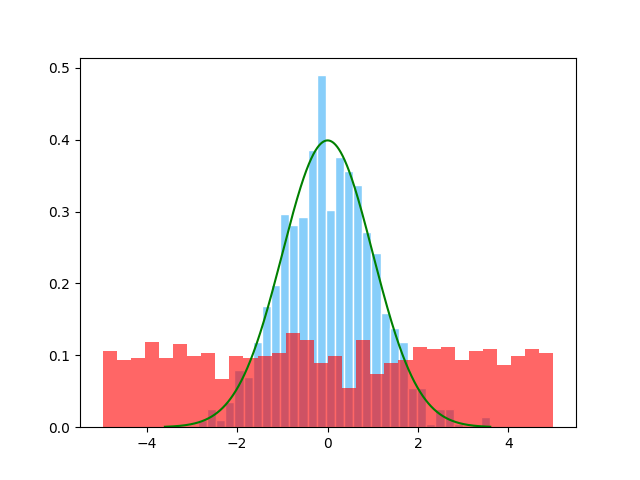
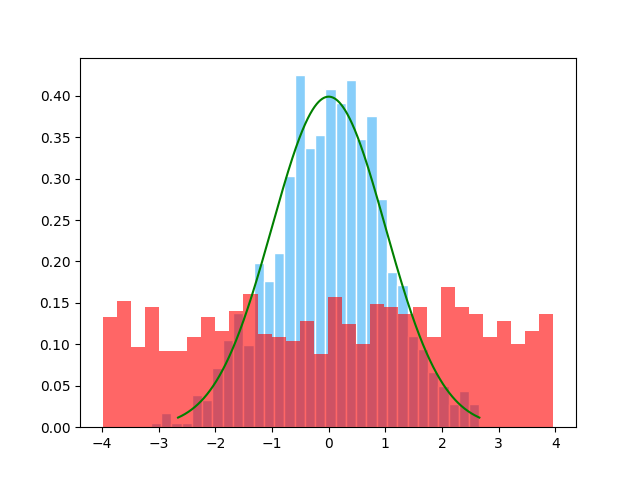
update gen distribution

diff --git a/probility/gen_distribute_from_U.py b/probility/gen_distribute_from_U.py
@@ -141,7 +141,7 @@ print "mean, std:", mean_val, std_val
 #绘制高斯采样的直方图
 plt_hist(sim_gauss_num, normed=True)
 #叠加均匀分布采样直方图
-plt.hist((sim_u-0.5)*10, bins = group_count, normed=True, color='r', alpha=0.6)
+plt.hist((sim_u-0.5)*8, bins = group_count, normed=True, color='r', alpha=0.6)
 
 #叠加正态分布图
 gauss_x, gauss_y = gen_gauss_distribute_pdf(0, 1, sample_count, np.max(sim_gauss_num))
@@ -162,7 +162,7 @@ sim_u, sim_num = gen_exp_samples_byU(sample_count, 1)
 #绘制指数采样直方图
 plt.hist(sim_num, bins = group_count, normed=True)
 #叠加均匀分布采样直方图
-plt.hist(sim_u*10, bins = group_count, normed=True, color='r', alpha=0.6)
+plt.hist(sim_u*8, bins = group_count, normed=True, color='r', alpha=0.6)
 
 #叠加标准指数分布图
 exp_x, exp_y = gen_exp_distribute_pdf(sample_count, 1, np.max(sim_num))
